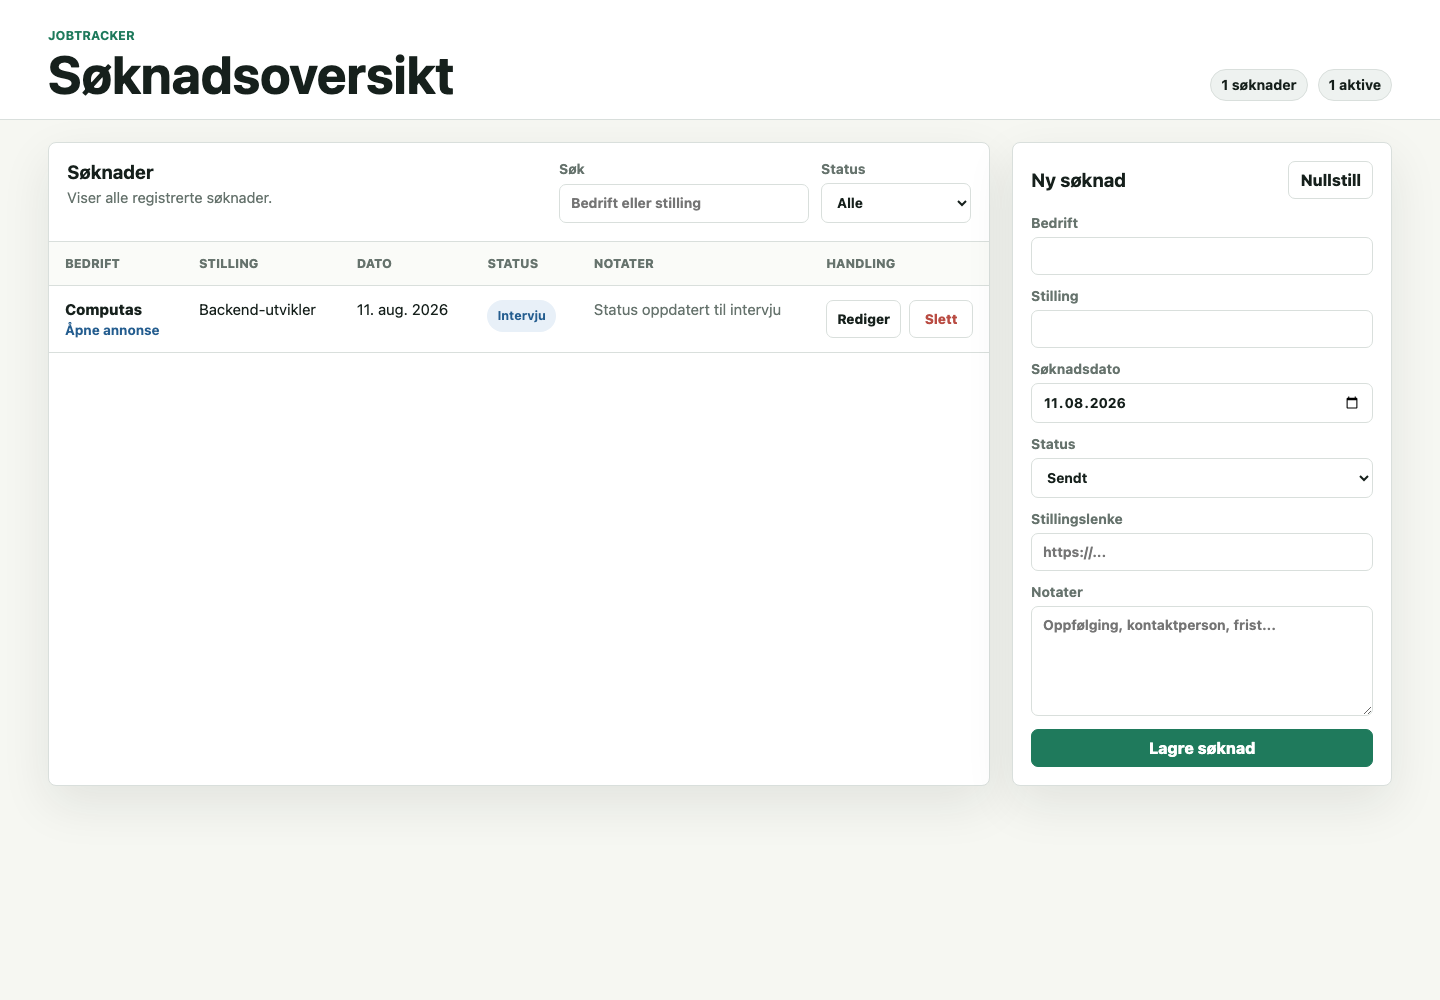
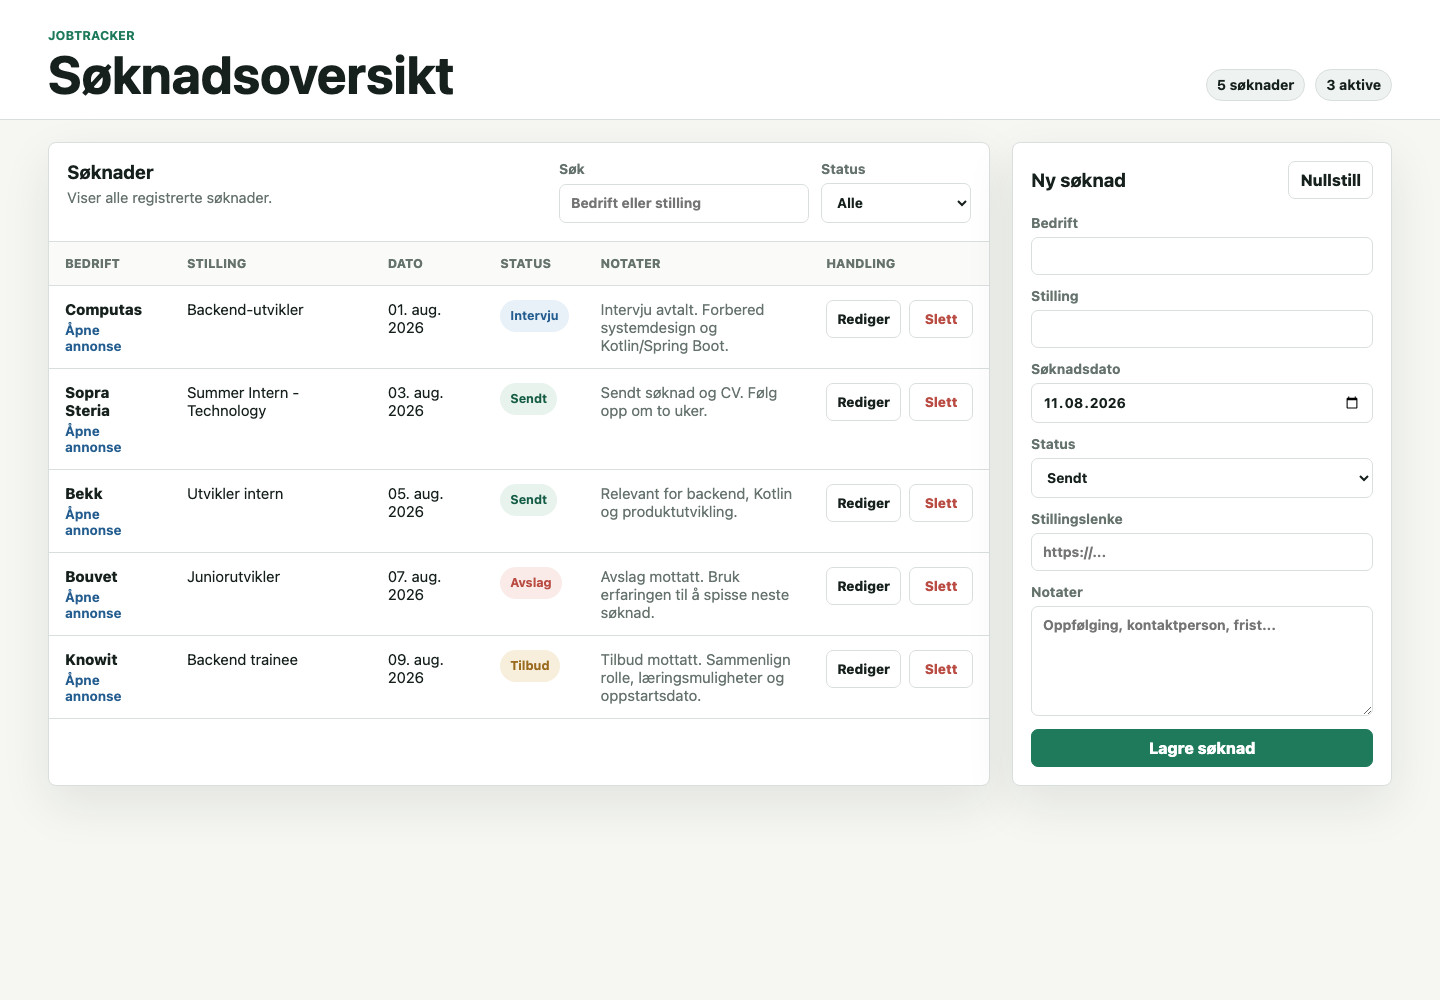
Add demo seed data

diff --git a/src/main/kotlin/com/nithusan/jobtracker/DemoDataConfig.kt b/src/main/kotlin/com/nithusan/jobtracker/DemoDataConfig.kt
@@ -1,0 +1,63 @@
+package com.nithusan.jobtracker
+
+import org.springframework.boot.ApplicationRunner
+import org.springframework.context.annotation.Bean
+import org.springframework.context.annotation.Configuration
+import java.time.LocalDate
+
+@Configuration
+class DemoDataConfig {
+
+	@Bean
+	fun seedDemoApplications(repository: ApplicationRepository): ApplicationRunner =
+		ApplicationRunner {
+			if (repository.count() > 0) {
+				return@ApplicationRunner
+			}
+
+			repository.saveAll(
+				listOf(
+					Application(
+						companyName = "Computas",
+						jobTitle = "Backend-utvikler",
+						applicationDate = LocalDate.of(2026, 8, 1),
+						status = ApplicationStatus.INTERVIEW,
+						jobListingUrl = "https://example.com/computas-backend",
+						notes = "Intervju avtalt. Forbered systemdesign og Kotlin/Spring Boot."
+					),
+					Application(
+						companyName = "Sopra Steria",
+						jobTitle = "Summer Intern - Technology",
+						applicationDate = LocalDate.of(2026, 8, 3),
+						status = ApplicationStatus.SENT,
+						jobListingUrl = "https://example.com/sopra-intern",
+						notes = "Sendt søknad og CV. Følg opp om to uker."
+					),
+					Application(
+						companyName = "Bekk",
+						jobTitle = "Utvikler intern",
+						applicationDate = LocalDate.of(2026, 8, 5),
+						status = ApplicationStatus.SENT,
+						jobListingUrl = "https://example.com/bekk-intern",
+						notes = "Relevant for backend, Kotlin og produktutvikling."
+					),
+					Application(
+						companyName = "Bouvet",
+						jobTitle = "Juniorutvikler",
+						applicationDate = LocalDate.of(2026, 8, 7),
+						status = ApplicationStatus.REJECTED,
+						jobListingUrl = "https://example.com/bouvet-junior",
+						notes = "Avslag mottatt. Bruk erfaringen til å spisse neste søknad."
+					),
+					Application(
+						companyName = "Knowit",
+						jobTitle = "Backend trainee",
+						applicationDate = LocalDate.of(2026, 8, 9),
+						status = ApplicationStatus.OFFER,
+						jobListingUrl = "https://example.com/knowit-trainee",
+						notes = "Tilbud mottatt. Sammenlign rolle, læringsmuligheter og oppstartsdato."
+					)
+				)
+			)
+		}
+}

diff --git a/README.md b/README.md
@@ -14,6 +14,7 @@ JobTracker er en enkel webapp og REST-API for å holde oversikt over jobbsøknad
 - Slett søknader
 - REST-API under `/api/applications`
 - Validering og tydelige `400`/`404`-feilsvar
+- Demo-data legges inn automatisk første gang databasen er tom
 
 ## Teknologistack
 
@@ -62,6 +63,8 @@ http://localhost:8080/api/applications
 ```
 
 Databasetabellen opprettes automatisk ved oppstart med `spring.jpa.hibernate.ddl-auto=update`.
+
+Når databasen er tom, legger appen inn noen realistiske demo-søknader automatisk. Eksisterende data blir ikke overskrevet.
 
 ## Deploy
 
